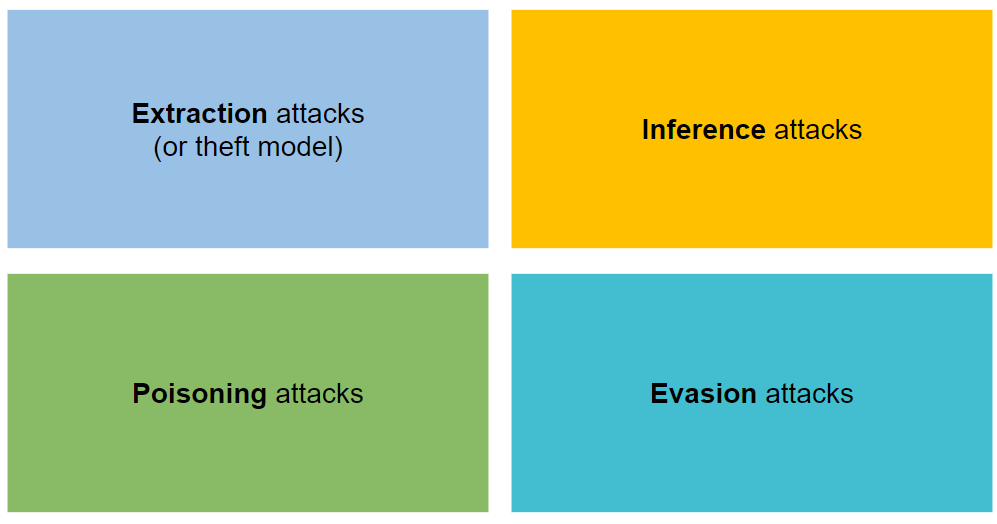
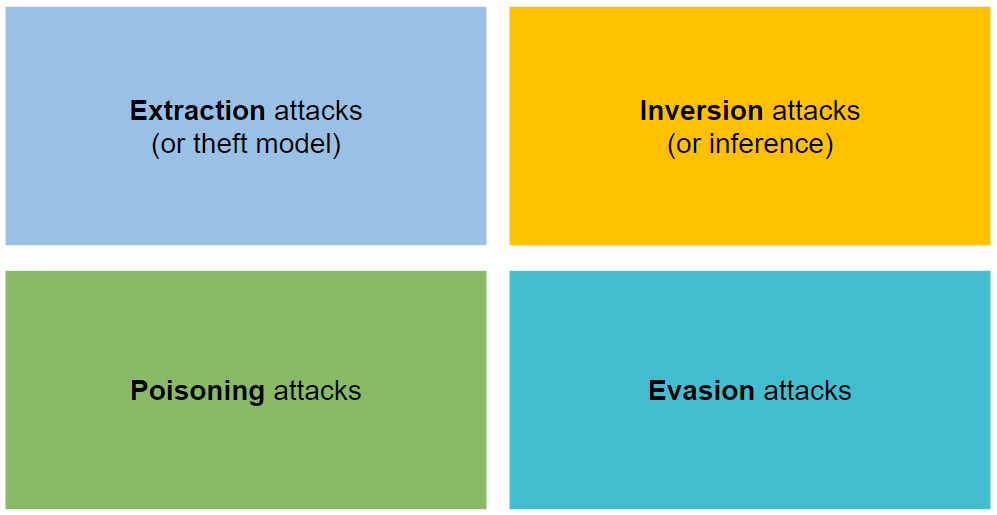
Update images

diff --git a/README.md b/README.md
@@ -114,7 +114,7 @@ In the generic case, where there is insufficient knowledge of the model, the sub
   
 They are intended to reverse the information flow of a machine learning model.
 
-![Inference attack](/assets/images/inference.png)
+![Inference attack](/assets/images/inversion.png)
 
 They enable an adversary to have knowledge of the model that was not explicitly intended to be shared.
 
